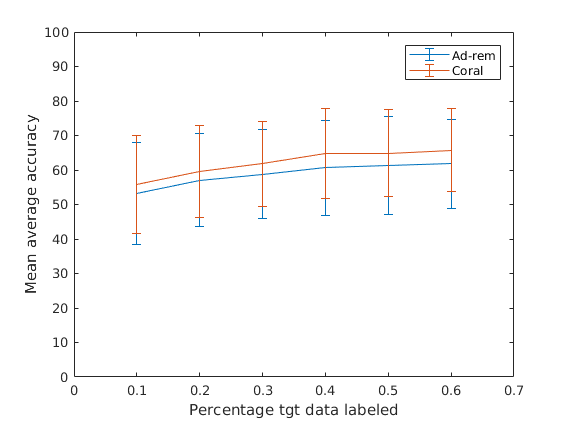
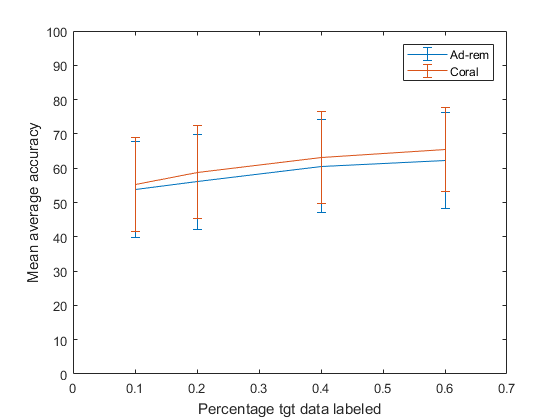
added plot

diff --git a/week6/Tjalling/adrem-v2/main.m b/week6/Tjalling/adrem-v2/main.m
@@ -3,6 +3,8 @@ addpath src/evaluation
 addpath src/comparison_methods
 addpath liblinear-2.20/matlab
 addpath libsvm/matlab
+addpath (genpath ('C:\Users\reactor\Desktop\ru\natcomp\Natural-Computing\week6\Tjalling\adrem-v2\libsvm'))
+addpath (genpath ('C:\Users\reactor\Desktop\ru\natcomp\Natural-Computing\week6\Tjalling\adrem-v2\liblinear'))
 
 %%%%%%%%%%%%%%%%%%%%%%%%%%%%%%%%%%%%%%%%%%%%%%%%%%%%%%%%%%%%%%%%%%%%%%%%%% 
 % First install libsvm and liblinear as described in Readme.md in /Tjalling
@@ -47,18 +49,18 @@ addpath libsvm/matlab
 % Do every experiment for 0.1-0.6 perc labeled tgt data, each experiment 5
 % times, and plot the results
 
-fprintf("Using surf features")
-plot_methods_repeated_labeled('surf');
+% fprintf("Using surf features")
+% plot_methods_repeated_labeled('surf');
 
-% fprintf("Using vgg features")
-% plot_methods_repeated_labeled('vgg');
+fprintf("Using vgg features")
+plot_methods_repeated_labeled('vgg');
 
 
 
 
 
 function plotted = plot_methods_repeated_labeled(features)
-    labeled_data_options = [0.1 0.2 0.3 0.4 0.5 0.6];
+    labeled_data_options = [0.1 0.2 0.4 0.6];
     adrem_accs = zeros(1, numel(labeled_data_options));
     adrem_stds = zeros(1, numel(labeled_data_options));
     coral_accs = zeros(1, numel(labeled_data_options));
@@ -70,8 +72,8 @@ function plotted = plot_methods_repeated_labeled(features)
         result = run_methods({'office-caltech-repeated', features}, labeled_data_options(i))
 
         mean_avg_accs = getfield(result, 'mean_avg_accs');
-        mean_std_accs = getfield(result, 'std_avg_accs'); % mean std of acc of different src-tgt sets
-    %     mean_std_accs = getfield(result, 'mean_std_accs'); % mean std of avg acc between iterations
+%         mean_std_accs = getfield(result, 'std_avg_accs'); % mean std of acc of different src-tgt sets
+        mean_std_accs = getfield(result, 'mean_std_accs'); % mean std of avg acc between iterations
 
         adrem_accs(i) = mean_avg_accs(1) * 100.0;
         adrem_stds(i) = mean_std_accs(1) * 100.0;
@@ -90,6 +92,7 @@ function plotted = plot_methods_repeated_labeled(features)
     legend('Ad-rem', 'Coral');
     [lgd, icons, plots, txt] = legend('show');
     plotted = 1;
+    saveas(gcf,'fig.png')
 end
 
 

diff --git a/week6/Tjalling/adrem-v2/src/evaluation/load_dataset.m b/week6/Tjalling/adrem-v2/src/evaluation/load_dataset.m
@@ -58,7 +58,7 @@ function data = load_dataset(data, features, preprocessing)
   elseif isequal(data.name, 'office-caltech-repeated')
     data = load_office_caltech(datadir, data, 'full');
     data.name = 'office-caltech-repeated';
-    data.num_repetitions = 5;
+    data.num_repetitions = 3;
   elseif isequal(data.name, 'office-caltech-standard')
     data = load_office_caltech(datadir, data, 'standard');
     data = shuffle_data(data);

diff --git a/week6/Tjalling/adrem-v2/README.md b/week6/Tjalling/adrem-v2/README.md
@@ -1,1 +1,18 @@
 Fork of https://github.com/twanvl/adrem
+
+
+## How to use
+
+#### Install
+- Clone the liblinear github in adrem-v2: https://github.com/cjlin1/liblinear
+- Install liblinear, for linux `cd liblinear-2.20; make`
+- Install liblinear for matlab, check readme in liblinear-2.20/matlab
+
+- Clone the libsvm github in adrem-v2: https://github.com/cjlin1/libsvm
+- Install libsvm, for linux `cd libsvm; make`
+- Install libsvm for matlab, check readme in libsvm/matlab
+
+- For Windows, git clone above mentioned repos, and enter in Matlab: `addpath (genpath ('path\to\libsvm_or_liblinear\matlab'))` 
+
+#### Run
+- run main.m in matlab

diff --git a/week6/Tjalling/readme.md b/week6/Tjalling/readme.md
@@ -10,6 +10,8 @@
 - Install libsvm, for linux `cd libsvm; make`
 - Install libsvm for matlab, check readme in libsvm/matlab
 
+- For Windows, git clone above mentioned repos, and enter in Matlab: `addpath (genpath ('path\to\libsvm_or_liblinear\matlab'))` 
 
 #### Run
 - run main.m in matlab
+
